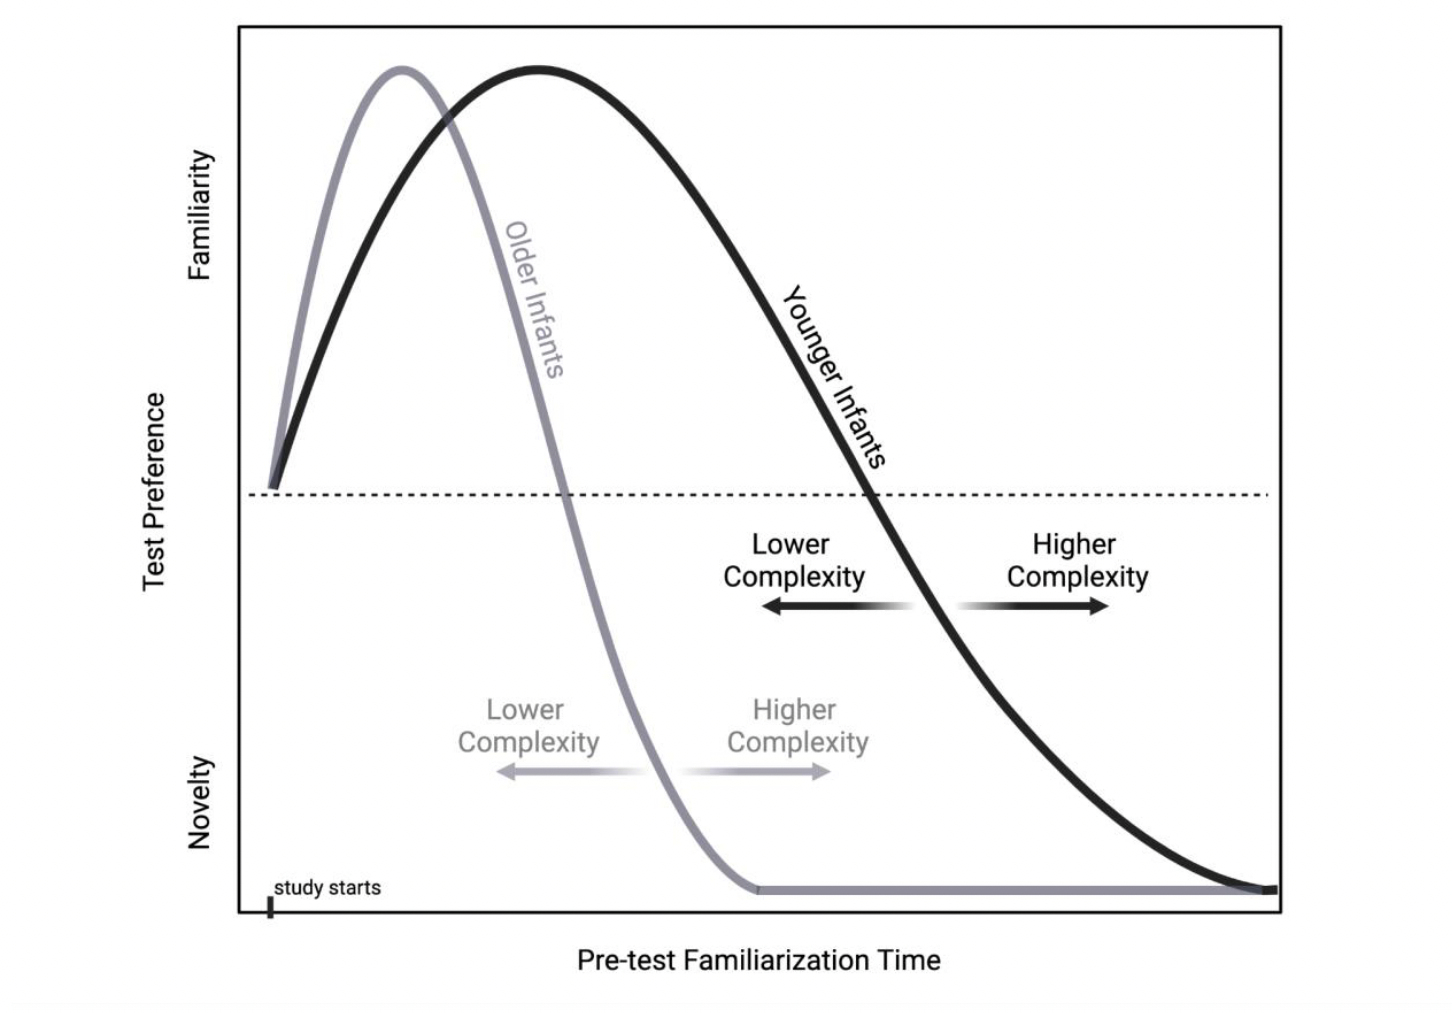
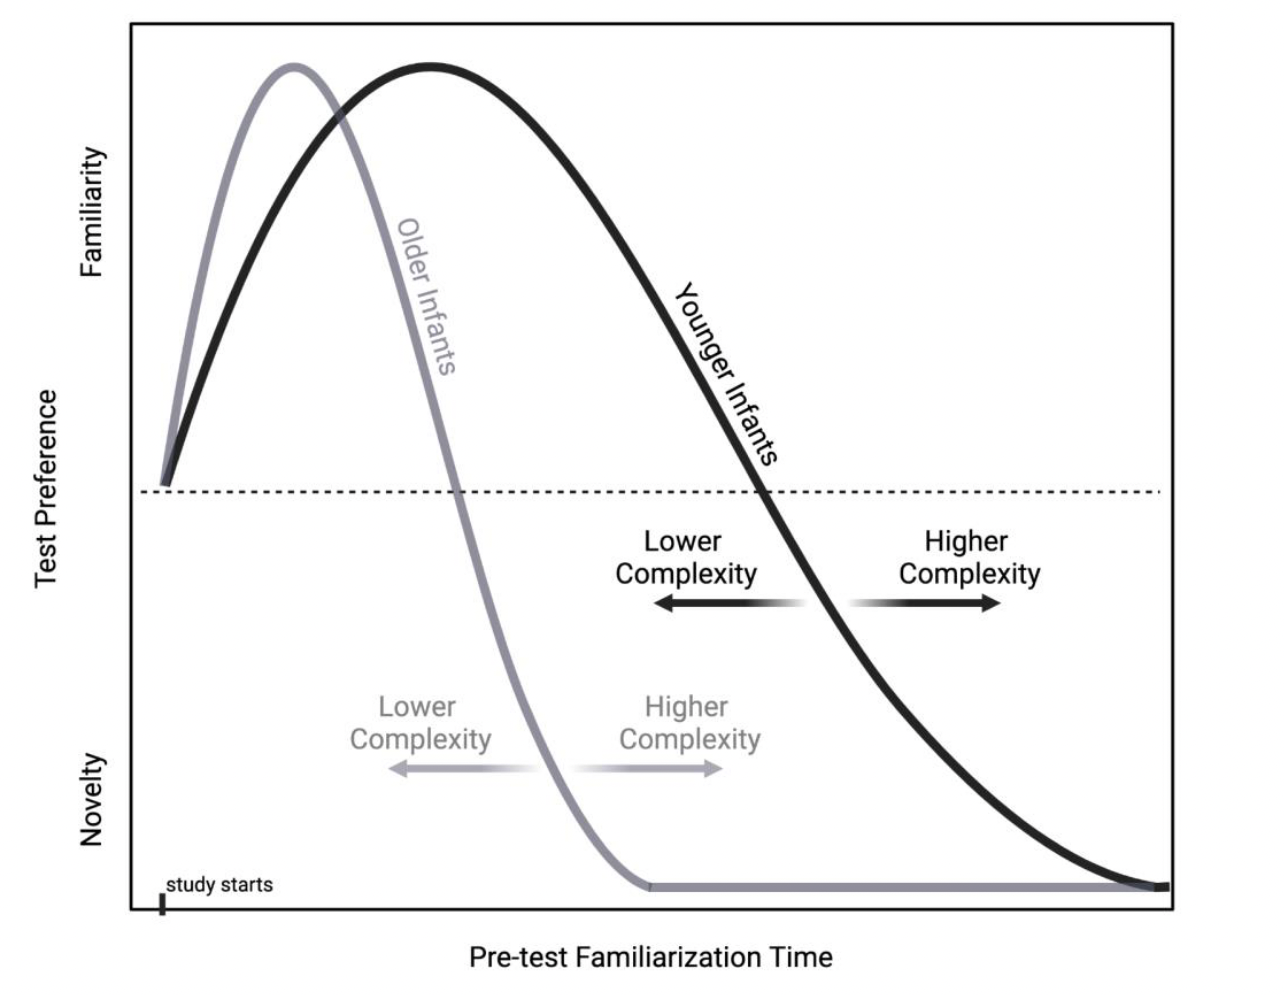
resize fig and caption

diff --git a/MB5.md b/MB5.md
@@ -34,7 +34,7 @@ subtitle: The Hunter & Ames Model of Infant Looking Preference
     </div>
     <div class="row">
       <div class="col-sm-12" align=left>
-        <p style="font-size:12px; "><b>Figure 1.</b> This figure (adapted from <a href="https://doi.org/10.1111/desc.12341" target="_blank">Bergmann and Cristia, 2016</a>) depicts <a href="https://psycnet.apa.org/record/1988-98065-003" target="_blank">Hunter & Ames’</a> model of infant looking to familiar (plotted up) and novel (plotted down) stimuli at different levels of pre-test familiarization time (shown on the x-axis). The dashed line indicates equal preference for familiar and novel stimuli. The grey line represents the model’s prediction for older infants, and the black line for younger infants. The “lower complexity” and “higher complexity” arrows indicate how the proposed relation between age and familiarization time might shift with variation in stimulus complexity (i.e., the current operationalization of task difficulty).</p>
+        <p style="font-size:14px; "><b>Figure 1.</b> This figure (adapted from <a href="https://doi.org/10.1111/desc.12341" target="_blank">Bergmann and Cristia, 2016</a>) depicts <a href="https://psycnet.apa.org/record/1988-98065-003" target="_blank">Hunter & Ames’</a> model of infant looking to familiar (plotted up) and novel (plotted down) stimuli at different levels of pre-test familiarization time (shown on the x-axis). The dashed line indicates equal preference for familiar and novel stimuli. The grey line represents the model’s prediction for older infants, and the black line for younger infants. The “lower complexity” and “higher complexity” arrows indicate how the proposed relation between age and familiarization time might shift with variation in stimulus complexity (i.e., the current operationalization of task difficulty).</p>
       </div>
     </div>
   </div>
